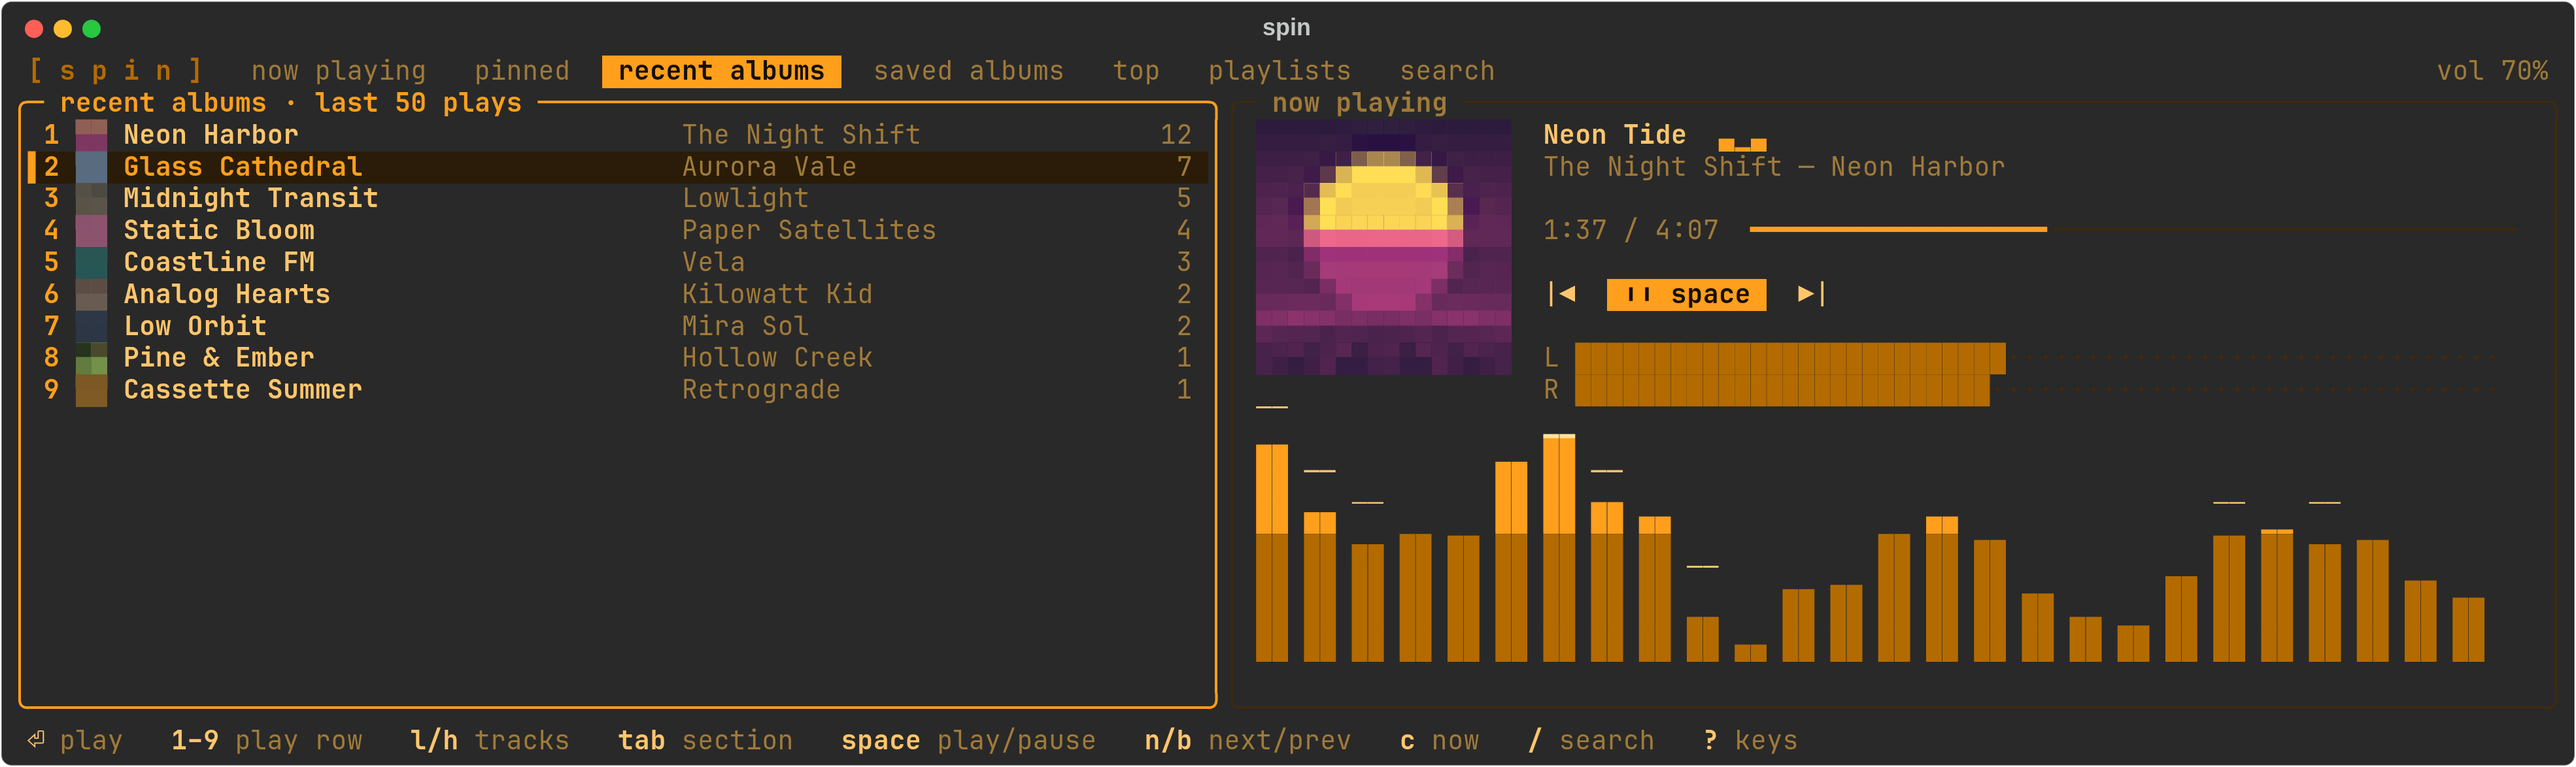
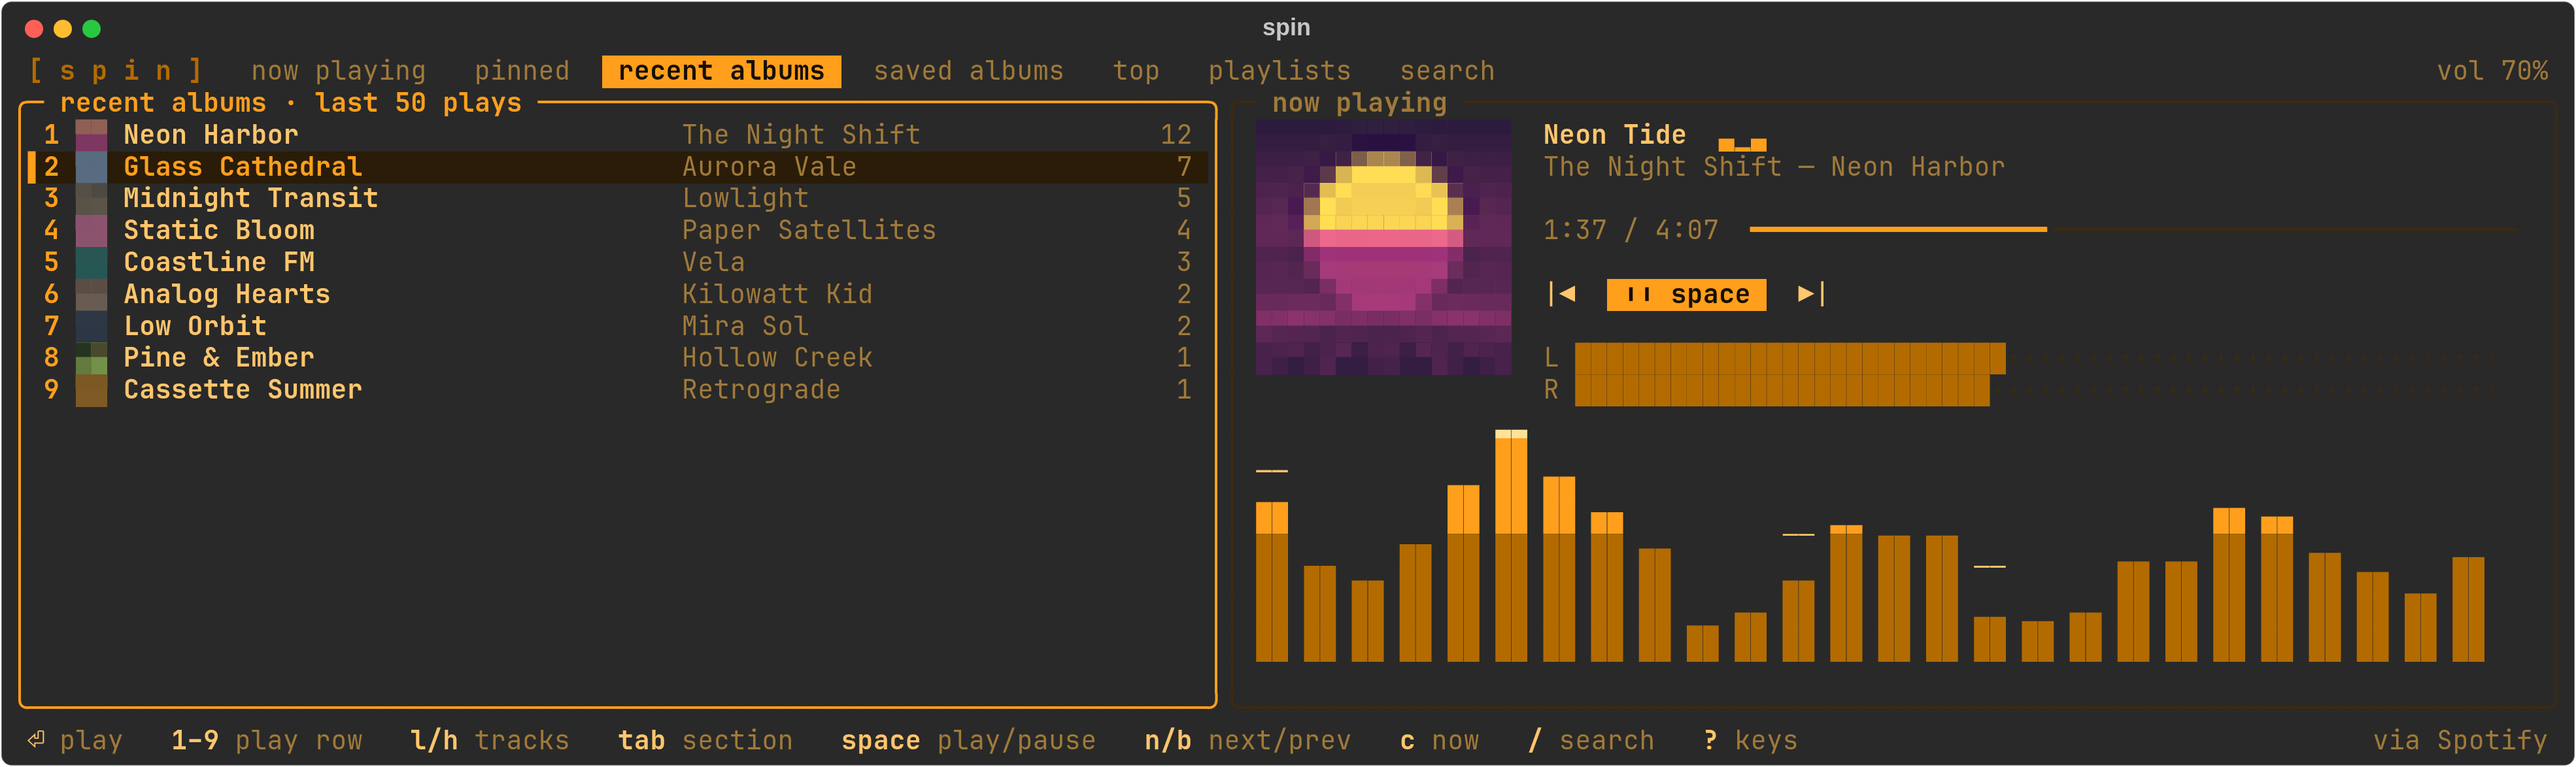
Credit Spotify, add open-in-Spotify and a cover art toggle, expire the cache
Following Spotify's Developer Terms and design guidelines: "via Spotify"
in the bottom-right of every layout, `o` opens the selected item in the
desktop app, `i` turns cover art off (the guidelines allow omitting it),
and cached API responses and covers older than 30 days are deleted at
startup instead of being kept indefinitely.

diff --git a/spin/app.py b/spin/app.py
@@ -19,7 +19,7 @@ from . import library, player
 from .api import ApiError, RateLimited, Spotify
 from .art import ArtCache
 from .auth import AuthError
-from .config import THEME_NAMES, save_config, theme_palette
+from .config import THEME_NAMES, prune_cache, save_config, theme_palette
 from .library import Entry
 from .ui import draw, mode_for
 from .viz import MODES, Levels, Pcm
@@ -109,6 +109,7 @@ class SpinApp(App):
         self.queue_tracks: list[Entry] | None = None
         self._track_url = ""
         self.focus = "list"
+        self.show_art = cfg.get("art", True) is not False
         self.songs = cfg.get("view") == "songs"  # albums or songs in the SONG_SECTIONS
         self.pins = library.load_pins()
         self.lists: dict[str, list[Entry]] = {}
@@ -132,6 +133,7 @@ class SpinApp(App):
 
     async def on_mount(self) -> None:
         self.title = "spin"
+        prune_cache()
         self.screen.styles.background = self.pal.bg
         self.query_one(SpinView).focus()
         await self.levels.start(self.fps)
@@ -453,6 +455,32 @@ class SpinApp(App):
         else:
             self.play(e)
 
+    def open_target(self) -> Entry | None:
+        """What `o` opens: the highlighted track if a tracklist has focus, else the highlighted item."""
+        in_tracks = self.focus == "detail" or self.detail_open
+        if self.section_key == "now":
+            if in_tracks:
+                up = self.queue_tracks or []
+                return up[min(self.detail_sel, len(up) - 1)] if up else None
+            return self.ctx_entry
+        e = self.selected()
+        if e and e.kind != "track" and in_tracks:
+            tracks = self.detail_tracks() or []
+            if tracks:
+                return tracks[min(self.detail_sel, len(tracks) - 1)]
+        return e
+
+    @work(group="open")
+    async def open_in_spotify(self, e: Entry) -> None:
+        """Hand a spotify: URI to the desktop app (its URL handler), which shows that page."""
+        try:
+            proc = await asyncio.create_subprocess_exec(
+                "xdg-open", e.uri, stdout=asyncio.subprocess.DEVNULL, stderr=asyncio.subprocess.DEVNULL)
+            await proc.wait()
+            self.status(f"opened {e.name} in Spotify")
+        except OSError as err:
+            self.status(f"couldn't open Spotify: {err}")
+
     @work(group="queue")
     async def queue(self, tr: Entry) -> None:
         try:
@@ -578,6 +606,15 @@ class SpinApp(App):
             if i < len(self.current_list()):
                 self.sel[self.list_key] = i
                 self.play_row(i)
+        elif ch == "o":
+            target = self.open_target()
+            if target and target.uri:
+                self.open_in_spotify(target)
+        elif ch == "i":
+            self.show_art = not self.show_art
+            self.cfg["art"] = self.show_art
+            save_config(self.cfg)
+            self.status(f"cover art {'on' if self.show_art else 'off'}", 2)
         elif ch == "s":
             self.songs = not self.songs
             self.cfg["view"] = "songs" if self.songs else "albums"

diff --git a/spin/ui.py b/spin/ui.py
@@ -19,6 +19,7 @@ if TYPE_CHECKING:
     from .app import SpinApp
 
 LOGO = "[ s p i n ]"
+CREDIT = "via Spotify"
 SPIN = ["▁▃▅", "▃▅▇", "▅▇▅", "▇▅▃", "▅▃▁", "▃▁▃"]
 
 HELP = [
@@ -35,6 +36,8 @@ HELP = [
     ("p", "pin / unpin album"),
     ("c", "jump to now playing"),
     ("s", "albums ⇄ songs (pinned, recent, saved, top)"),
+    ("o", "open in the Spotify app"),
+    ("i", "cover art on / off"),
     ("v", "change visualizer"),
     ("t", "change theme"),
     ("/", "search"),
@@ -106,11 +109,23 @@ def draw(app: "SpinApp", W: int, H: int) -> Grid:
     frac = (now.position / now.length) if now.length else 0.0
     times = f"{clock(now.position)} / {clock(now.length)}" if now.length else ""
 
+    def no_art(x, y, w, h):
+        """Stand-in when cover art is turned off (Spotify's guidelines allow omitting it)."""
+        if h >= 3 and w >= 6:
+            g.box(x, y, w, h, P.line)
+            g.put(x + w // 2, y + h // 2, "♪", P.dim)
+        elif w >= 2:
+            g.put(x + w // 2 - 1, y, "♪", P.dim)
+
     def cover(x, y, w, h):
+        if not app.show_art:
+            return no_art(x, y, w, h)
         app.want_art(now.art_url)
         g.art(x, y, app.art.pixels(now.art_url, now.album or "spin", w, h * 2))
 
     def entry_art(e, x, y, w, h):
+        if not app.show_art:
+            return no_art(x, y, w, h)
         url = e.image if w <= 8 else e.image_big
         app.want_art(url)
         g.art(x, y, app.art.pixels(url, e.id or e.name, w, h * 2))
@@ -129,12 +144,15 @@ def draw(app: "SpinApp", W: int, H: int) -> Grid:
         return x + 20
 
     def hints(y, items):
+        # Spotify's terms ask for content to be credited to Spotify.
+        g.put(W - 1 - len(CREDIT), y, CREDIT, P.dim)
+        room = W - len(CREDIT) - 3
         if app.status_text():
-            g.put(1, y, cut(app.status_text(), W - 2), P.accent, bold=True)
+            g.put(1, y, cut(app.status_text(), room - 1), P.accent, bold=True)
             return
         x = 1
         for k, label in items:
-            if x + len(k) + 1 + len(label) > W - 1:
+            if x + len(k) + 1 + len(label) > room:
                 break
             x = g.put(x, y, k, P.fg, bold=True) + 1
             x = g.put(x, y, label, P.dim) + 3

diff --git a/spin/config.py b/spin/config.py
@@ -4,6 +4,7 @@ from __future__ import annotations
 
 import json
 import os
+import time
 import tomllib
 from dataclasses import dataclass
 from pathlib import Path
@@ -62,6 +63,19 @@ class Palette:
     sel: str = "#3A3833"
     green: str = "#9DBF6B"
     red: str = "#D9764A"
+
+
+def prune_cache(days: int = 30) -> None:
+    """Spotify's terms say not to keep its content indefinitely: drop cached API
+    responses and cover art that haven't been refreshed in `days` days."""
+    cutoff = time.time() - days * 86400
+    for sub in ("api", "art"):
+        for f in (CACHE_DIR / sub).glob("*"):
+            try:
+                if f.is_file() and f.stat().st_mtime < cutoff:
+                    f.unlink()
+            except OSError:
+                pass
 
 
 def save_config(cfg: dict) -> None:

diff --git a/README.md b/README.md
@@ -31,6 +31,7 @@ all without leaving the terminal. spin drives the Spotify desktop app, so playba
 - **Visualizers driven by the actual audio.** Spectrum bars from [cava](https://github.com/karlstav/cava),
   plus a triggered oscilloscope, a stereo goniometer and L/R meters fed by raw PipeWire samples.
 - **Cover art in the terminal.** Album covers drawn with half-block pixels; no image protocol needed.
+  Press `i` to hide them.
 - **One layout that fits any pane.** Three panes at full screen, stacked in a half, compact in a
   quarter tile. Built for tiling window managers.
 - **Themes.** Follows your [Omarchy](https://omarchy.org) theme, or pick synthwave, phosphor, amber,
@@ -125,7 +126,8 @@ spin logout     # forget the stored tokens
 | `[` `]` | previous / next section | `c` | jump to now playing |
 | `/` | search | `v` | next visualizer |
 | `r` | refresh this section | `t` | next theme |
-| `s` | albums ⇄ songs | `?` | all keys |
+| `s` | albums ⇄ songs | `o` | open in the Spotify app |
+| `i` | cover art on / off | `?` | all keys |
 | `q` | quit | | |
 
 The screen redraws at 60 fps. Add `"fps": 30` to `~/.config/spin/config.json` to halve the CPU it
@@ -184,7 +186,7 @@ says when to try again.
 | `~/.config/spin/config.json` | your Client ID, theme, visualizer, fps |
 | `~/.config/spin/auth.json` | Spotify tokens (mode 600) |
 | `~/.config/spin/pins.json` | pinned albums |
-| `~/.cache/spin/` | API responses and cover art |
+| `~/.cache/spin/` | API responses and cover art; anything not refreshed in 30 days is deleted at startup |
 
 ## ◆ Development
 
@@ -198,7 +200,10 @@ python3 -m venv .venv && .venv/bin/pip install -e .
 Built with [Textual](https://github.com/Textualize/textual). Spectrum by
 [cava](https://github.com/karlstav/cava). Music data and playback via the
 [Spotify Web API](https://developer.spotify.com/documentation/web-api). spin is not affiliated
-with or endorsed by Spotify.
+with or endorsed by Spotify. In keeping with Spotify's
+[Developer Terms](https://developer.spotify.com/terms), content is credited to Spotify on screen,
+`o` opens anything in the Spotify app, cached data expires after 30 days, and cover art can be
+turned off.
 
 ## ◆ License
 
